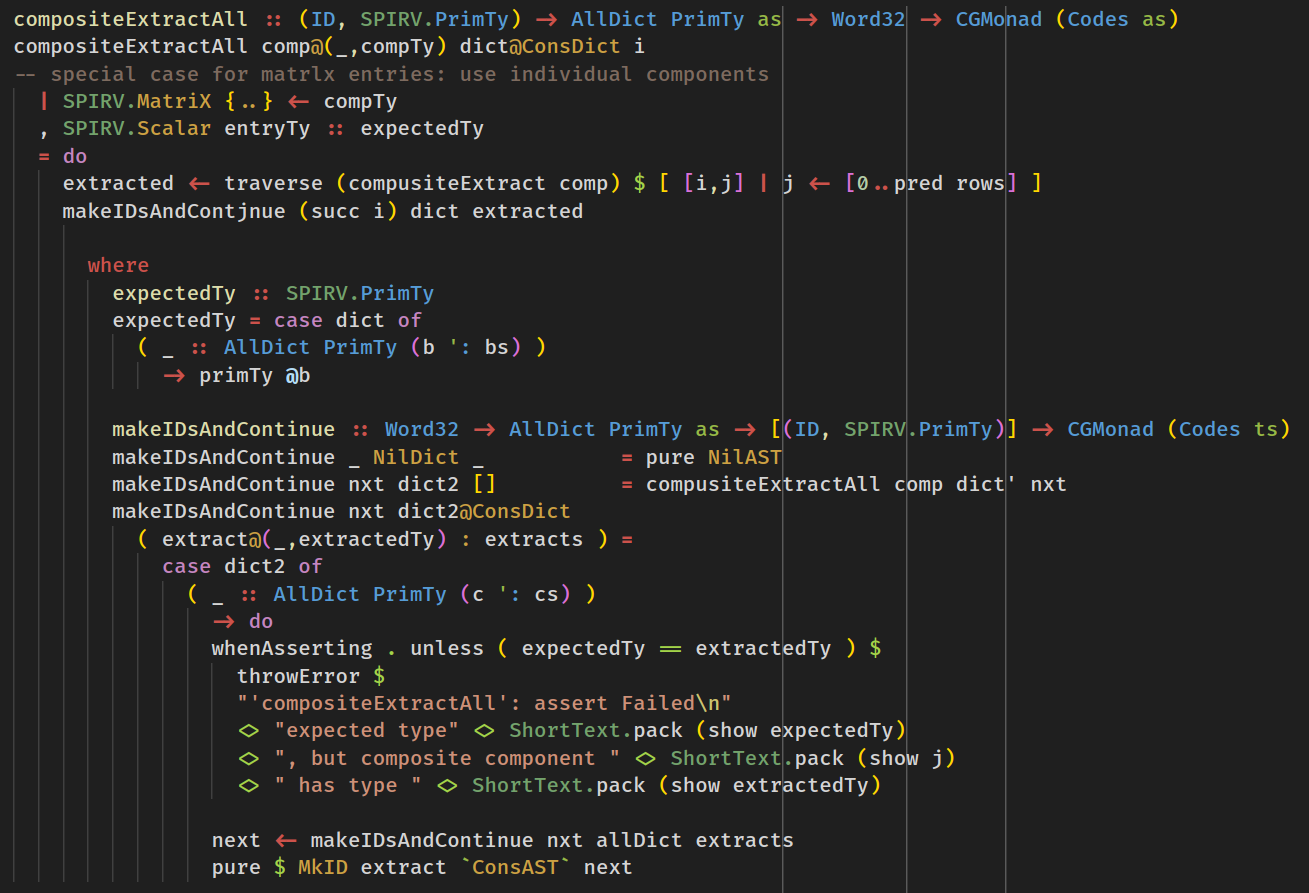
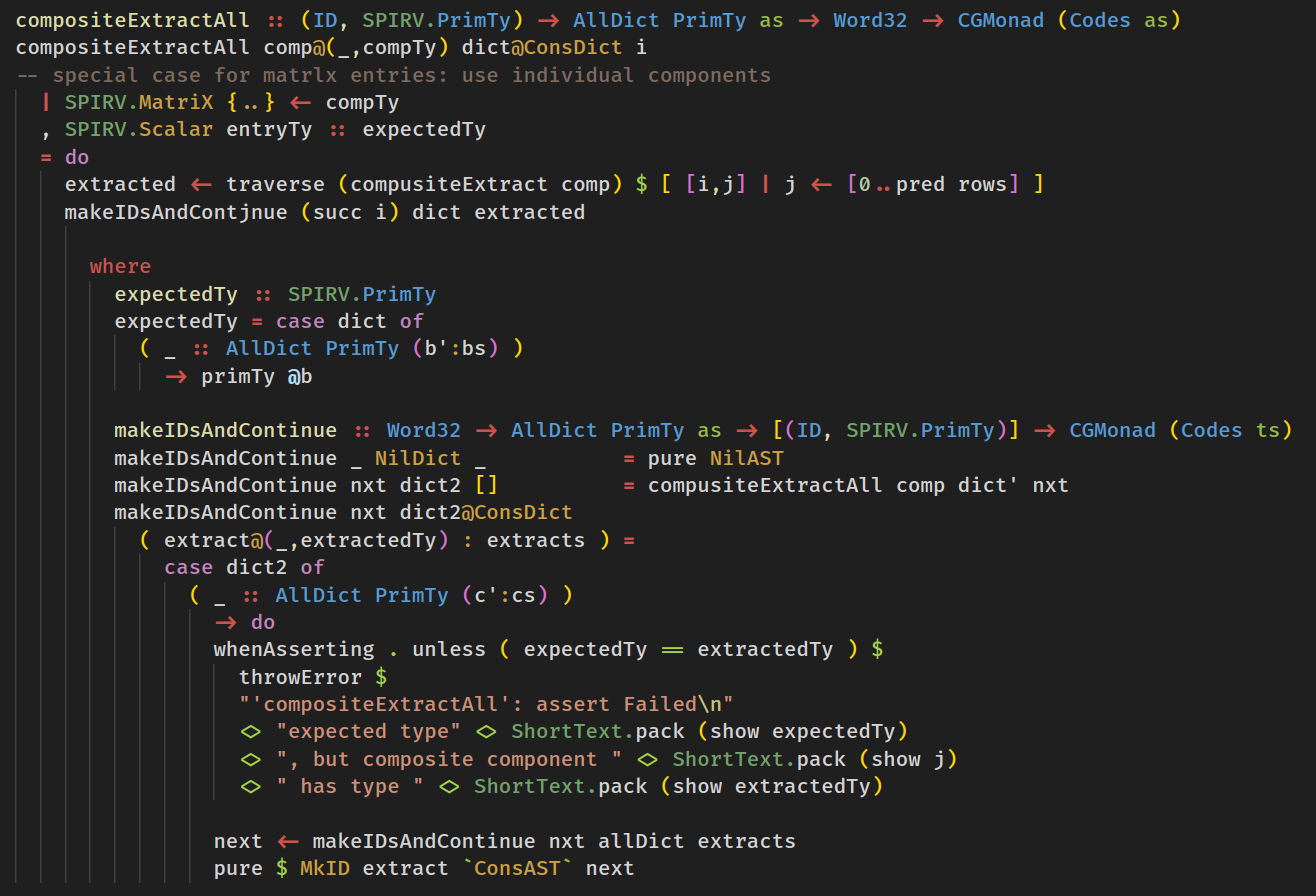
removed rulers from screenshots

diff --git a/readme.md b/readme.md
@@ -4,11 +4,11 @@ __Lambda Black__ is a VS Code color theme optimised for Haskell with extra synta
 ## Color schemes
 Black:
 <p align="center">
-  <img src="https://pomf2.lain.la/f/nsdu417d.png" alt="Black color scheme" style="max-width:90%;">
+  <img src="https://pomf2.lain.la/f/hir2e3kl.png" alt="Black color scheme" style="max-width:90%;">
 </p>
 Dark+:
 <p align="center">
-  <img src="https://pomf2.lain.la/f/lrn6c94.png" alt="Dark+ color scheme" style="max-width:90%;">
+  <img src="https://pomf2.lain.la/f/4z950u8h.png" alt="Dark+ color scheme" style="max-width:90%;">
 </p>
 
 ## Features
@@ -19,7 +19,6 @@ Lambda Black supports all TextMate scopes provided by the [__Language Haskell__]
   * distinguish different uses of `@`: type application, record syntax or infix operator,
   * special highlighting for record fields,
   * highlights MagicHash and OverloadedLabels,
-  * underlines recognised GHC language extensions.
 
 # Installation
 Install the theme from the VS Code marketplace [here](https://marketplace.visualstudio.com/items?itemName=janw4ld.lambda-black).  

diff --git a/changelog.md b/changelog.md
@@ -1,6 +1,10 @@
 # Changelog
 
-## [0.2.0 - Feb 23rd, 2023]
+## [0.2.1 - Feb 23rd, 2023]
+
+- Removed junk from the vsce package.
+
+- ## [0.2.0 - Feb 23rd, 2023]
 
 - Added an extra color scheme based on Dark+ V2.
 
